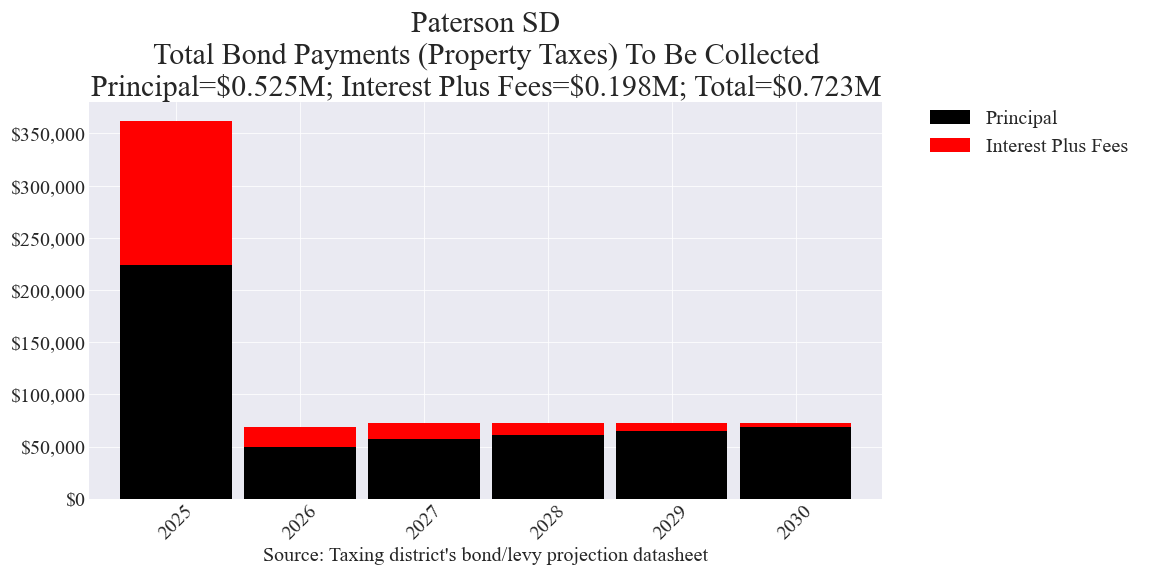
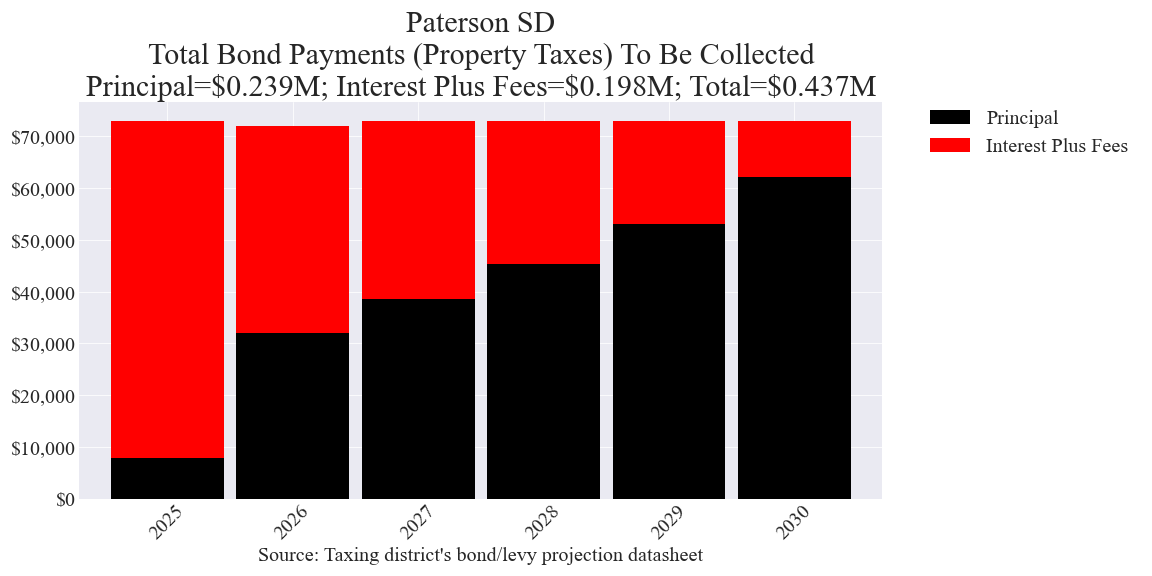
Updated Paterson SD's bond

diff --git a/_includes/cost_estimates/20240213/Paterson_20240213_Enhanced.html b/_includes/cost_estimates/20240213/Paterson_20240213_Enhanced.html
@@ -15,7 +15,7 @@
 	sampleParcelAV = 500000;
 	sampleParcelAVMin = 100000;
 	sampleParcelAVMax = 2000000;
-	totalBondPrincipal = 525000;
+	totalBondPrincipal = 239000;
 	totalBondInterest = 198000;
 	totalBondCost = totalBondPrincipal + totalBondInterest;
 	sampleParcelPOF = sampleParcelAV / totalBondAV;
@@ -39,12 +39,12 @@
 		data.addColumn('number', 'Interest + Fees');
 
 		data.addRows([
-			['2025', 223873.0, 138128.0],
-			['2026', 49999.0, 19001.0],
-			['2027', 57154.0, 15846.0],
-			['2028', 60760.0, 12240.0],
-			['2029', 64594.0, 8406.0],
-			['2030', 68621.0, 4379.0],
+			['2025', 7801.0, 65199.0],
+			['2026', 32049.0, 39951.0],
+			['2027', 38587.0, 34413.0],
+			['2028', 45255.0, 27745.0],
+			['2029', 53075.0, 19925.0],
+			['2030', 62234.0, 10766.0],
 
 		]);
 
@@ -151,8 +151,8 @@
 		data5.addRows([
 			['2023', 0, 0, 0, 0, 0, 0, 355000, 0, 1135497, 2381879],
 			['2024', 0, 0, 0, 0, 0, 0, 360000, 0, 0, 0],
-			['2025', 0, 362000, 0, 0, 0, 0, 360000, 0, 0, 0],
-			['2026', 0, 69000, 0, 0, 0, 0, 360000, 0, 0, 0],
+			['2025', 0, 73000, 0, 0, 0, 0, 360000, 0, 0, 0],
+			['2026', 0, 72000, 0, 0, 0, 0, 360000, 0, 0, 0],
 			['2027', 0, 73000, 0, 0, 0, 0, 0, 360000, 0, 0],
 			['2028', 0, 73000, 0, 0, 0, 0, 0, 360000, 0, 0],
 			['2029', 0, 73000, 0, 0, 0, 0, 0, 360000, 0, 0],
@@ -245,8 +245,8 @@
 		data6.addRows([
 			['2023', 0, 0, 0, 0, 0, 0, 355000, 0, 1135497, 2381879],
 			['2024', 0, 0, 0, 0, 0, 0, 360000, 0, 0, 0],
-			['2025', 0, 362000, 0, 0, 0, 0, 360000, 0, 0, 0],
-			['2026', 0, 69000, 0, 0, 0, 0, 360000, 0, 0, 0],
+			['2025', 0, 73000, 0, 0, 0, 0, 360000, 0, 0, 0],
+			['2026', 0, 72000, 0, 0, 0, 0, 360000, 0, 0, 0],
 			['2027', 0, 73000, 0, 0, 0, 0, 0, 360000, 0, 0],
 			['2028', 0, 73000, 0, 0, 0, 0, 0, 360000, 0, 0],
 			['2029', 0, 73000, 0, 0, 0, 0, 0, 360000, 0, 0],
